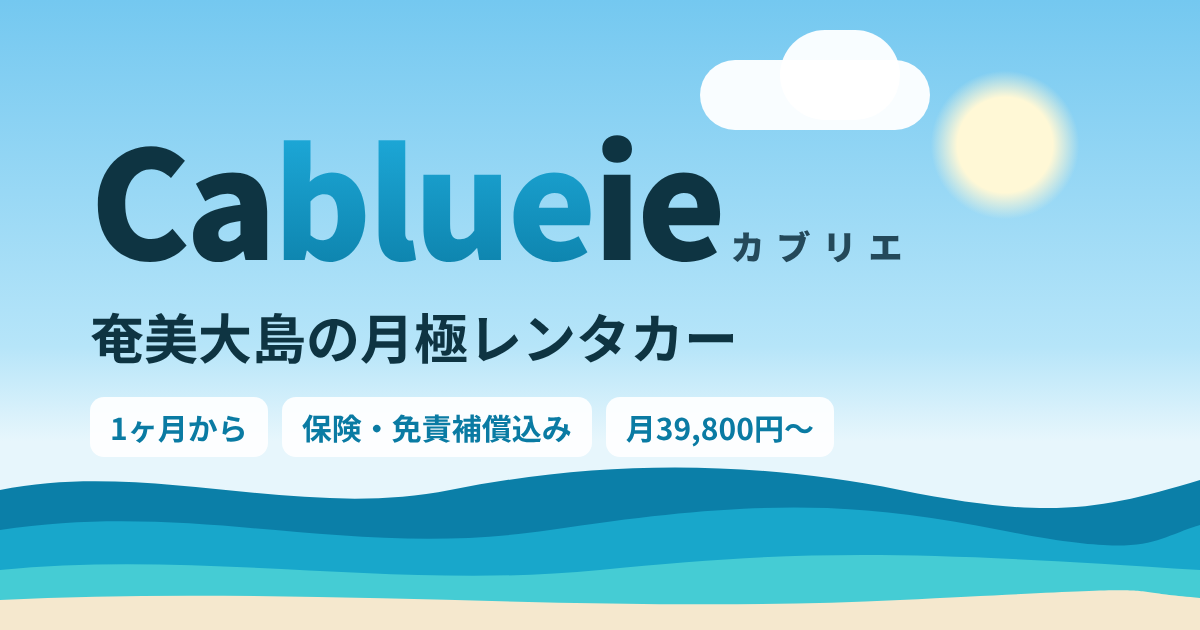
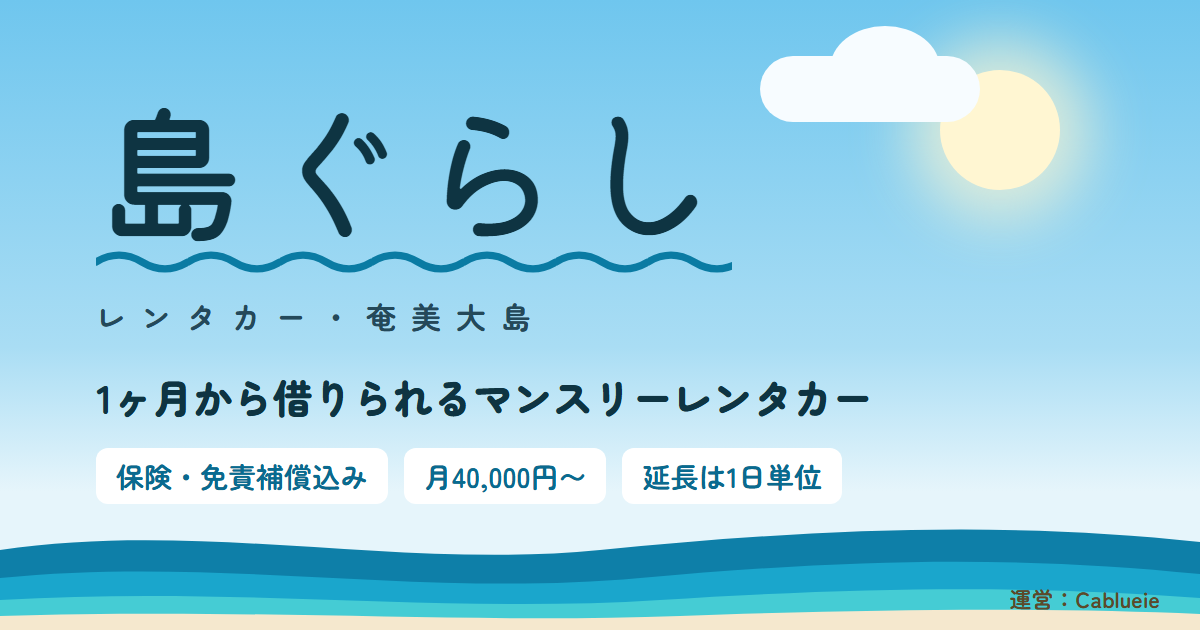
島ぐらしレンタカーに名前を変更（トップ・アイコン・共有画像）

diff --git a/index.html b/index.html
@@ -3,12 +3,12 @@
 <head>
 <meta charset="utf-8">
 <meta name="viewport" content="width=device-width, initial-scale=1">
-<title>奄美大島のマンスリーレンタカー（月極・長期）｜Cablueieレンタカー</title>
+<title>奄美大島のマンスリーレンタカー（月極・長期）｜島ぐらしレンタカー</title>
 <meta name="description" content="奄美大島のマンスリーレンタカー（月極・長期レンタカー）。1ヶ月から、延長は1日単位。保険・免責補償込みで月40,000円から。奄美空港・名瀬で受け渡し。看護師・出張・転勤など、お仕事や長期滞在に。サイトで予約と支払いまでできます。">
 <link rel="canonical" href="https://cablueie-rentacar.com/">
 <meta property="og:type" content="website">
-<meta property="og:site_name" content="Cablueieレンタカー">
-<meta property="og:title" content="奄美大島のマンスリーレンタカー（月極・長期）｜Cablueieレンタカー">
+<meta property="og:site_name" content="島ぐらしレンタカー">
+<meta property="og:title" content="奄美大島のマンスリーレンタカー（月極・長期）｜島ぐらしレンタカー">
 <meta property="og:description" content="奄美大島のマンスリーレンタカー（月極・長期レンタカー）。1ヶ月から、延長は1日単位。保険・免責補償込みで月40,000円から。奄美空港・名瀬で受け渡し。看護師・出張・転勤など、お仕事や長期滞在に。サイトで予約と支払いまでできます。">
 <meta property="og:url" content="https://cablueie-rentacar.com/">
 <meta property="og:image" content="https://cablueie-rentacar.com/og.png">
@@ -19,11 +19,11 @@
 <link rel="apple-touch-icon" href="apple-touch-icon.png">
 <link rel="preconnect" href="https://fonts.googleapis.com">
 <link rel="preconnect" href="https://fonts.gstatic.com" crossorigin>
-<link rel="stylesheet" href="https://fonts.googleapis.com/css2?family=Bricolage+Grotesque:opsz,wght@12..96,600;12..96,800&amp;family=IBM+Plex+Mono:wght@400;500&amp;family=Zen+Kaku+Gothic+New:wght@400;500;700&amp;display=swap">
-<link rel="stylesheet" href="assets/site.css?v=20261016">
-<script type="application/ld+json">{"@context": "https://schema.org", "@type": "WebSite", "@id": "https://cablueie-rentacar.com/#website", "url": "https://cablueie-rentacar.com/", "name": "Cablueieレンタカー", "alternateName": ["カブリエレンタカー", "Cablueie"], "inLanguage": "ja", "publisher": {"@id": "https://cablueie-rentacar.com/#business"}}</script>
-<script type="application/ld+json">{"@context": "https://schema.org", "@type": "AutoRental", "name": "Cablueieレンタカー", "alternateName": ["カブリエレンタカー", "Cablueie"], "description": "奄美大島のマンスリーレンタカー（月極・長期レンタカー）。1ヶ月から、延長は1日単位。保険・免責補償込みで月40,000円から。奄美空港・名瀬で受け渡し。看護師・出張・転勤など、お仕事や長期滞在に。サイトで予約と支払いまでできます。", "url": "https://cablueie-rentacar.com/", "image": "https://cablueie-rentacar.com/og.png", "logo": "https://cablueie-rentacar.com/apple-touch-icon.png", "address": {"@type": "PostalAddress", "postalCode": "894-0062", "addressRegion": "鹿児島県", "addressLocality": "奄美市", "streetAddress": "名瀬有屋町", "addressCountry": "JP"}, "areaServed": {"@type": "Place", "name": "奄美大島"}, "priceRange": "月額40,000円〜45,000円", "paymentAccepted": "クレジットカード, 電子決済, 銀行振込", "currenciesAccepted": "JPY", "@id": "https://cablueie-rentacar.com/#business", "knowsLanguage": "ja", "makesOffer": [{"@type": "Offer", "name": "マンスリーレンタカー（通常シーズン 10〜5月）", "description": "軽自動車・保険と免責補償込み", "priceCurrency": "JPY", "price": "40000", "availability": "https://schema.org/InStock", "priceSpecification": {"@type": "UnitPriceSpecification", "price": 40000, "priceCurrency": "JPY", "unitText": "月", "unitCode": "MON"}}, {"@type": "Offer", "name": "マンスリーレンタカー（夏シーズン 6〜9月）", "description": "軽自動車・保険と免責補償込み", "priceCurrency": "JPY", "price": "45000", "availability": "https://schema.org/InStock", "priceSpecification": {"@type": "UnitPriceSpecification", "price": 45000, "priceCurrency": "JPY", "unitText": "月", "unitCode": "MON"}}]}</script>
-<script type="application/ld+json">{"@context": "https://schema.org", "@type": "FAQPage", "mainEntity": [{"@type": "Question", "name": "マンスリーレンタカー（月極レンタカー）とは何ですか？", "acceptedAnswer": {"@type": "Answer", "text": "1ヶ月単位の料金で長く借りられるレンタカーです。1日ごとの料金のふつうのレンタカーより、長く使うほど割安になります。Cablueieレンタカーは1ヶ月から借りられて、1ヶ月を超えた分は1日単位、最長6ヶ月までです。保険と免責補償は料金に含まれています。"}}, {"@type": "Question", "name": "1ヶ月より短く借りられますか？", "acceptedAnswer": {"@type": "Answer", "text": "はい。借りる日が30日以内の場合か、予約と予約のあいだの1ヶ月に満たない空きの場合に、7日から借りられます。料金は1日3,500円（夏シーズンの6〜9月は4,000円。その時期の1ヶ月分が上限）で、全額前払いです。カレンダーで期間を選べば、そのまま申し込みとお支払いまでできます。"}}, {"@type": "Question", "name": "保険は入っていますか？事故のときの修理代は？", "acceptedAnswer": {"@type": "Answer", "text": "自賠責保険と任意保険（対人・対物無制限）、免責補償が月額料金に含まれています。万一の事故でも、車の修理代のご負担はありません。修理中の休業補償（NOC）は別にかかりますが、NOCサポート（月1,500円）に入ると0円になります。"}}, {"@type": "Question", "name": "奄美空港で受け取れますか？", "acceptedAnswer": {"@type": "Answer", "text": "はい。奄美空港での受け渡しは片道3,000円、名瀬の市街地（港・病院・滞在先など）は片道500円、名瀬有屋町の事務所なら無料です。受け渡しの時間と場所は、お申し込みのあとにご連絡して決めます。少人数で運営しているため、便の時間などによっては、ご希望に添えないことがあります。"}}, {"@type": "Question", "name": "支払い方法は何が使えますか？", "acceptedAnswer": {"@type": "Answer", "text": "クレジットカード（Visa・Mastercard・JCB・American Expressなど）、電子決済、銀行振込が使えます。お申し込みのあと、お支払いページのリンクをメールでお送りします。ご利用期間の料金をお支払いいただいた時点で、予約が確定します。"}}, {"@type": "Question", "name": "保証金は必要ですか？カードの登録とは？", "acceptedAnswer": {"@type": "Answer", "text": "保証金はいただきません。その代わりに、お支払いのときに保証用のクレジットカード（またはデビットカード）を登録していただきます。今は請求されず、返却後の燃料代・延滞料金・違約金などを期日までにお支払いいただけないときだけ、内容をお知らせしたうえで請求します。ご利用の終了から90日後に登録を削除します。"}}, {"@type": "Question", "name": "LINEや電話で申し込めますか？", "acceptedAnswer": {"@type": "Answer", "text": "ご相談は、LINE・電話・メールで受け付けています。お申し込みは、このページの「見積もりと申し込み」からお願いします（運転免許証の写真もそこから送っていただきます）。免許証の写真は、LINEやメールでは受け付けていません。あとから運転する人を追加するときや、免許証の写真を撮り直すときは、受付確認のメールにある専用のページから送れます。"}}, {"@type": "Question", "name": "どんな人が運転できますか？", "acceptedAnswer": {"@type": "Answer", "text": "21歳以上で、運転免許を取って1年以上の方です。運転する方は全員、申し込みのときに運転免許証の写真を送っていただきます。"}}, {"@type": "Question", "name": "カーリースとの違いは？", "acceptedAnswer": {"@type": "Answer", "text": "カーリースは年単位の契約が中心で、途中でやめると違約金がかかることが多いため、数ヶ月の滞在には向きません。マンスリーレンタカーなら1ヶ月から借りられて、保険・点検・車検の費用も料金に含まれています。"}}, {"@type": "Question", "name": "走行距離の制限や、島の外への持ち出しは？", "acceptedAnswer": {"@type": "Answer", "text": "走行距離の制限はありません。ご利用は奄美大島内に限り、フェリーなどで他の島へ車を持ち出すことはできません。"}}]}</script>
+<link rel="stylesheet" href="https://fonts.googleapis.com/css2?family=Kiwi+Maru:wght@500&amp;family=Zen+Maru+Gothic:wght@500;700;900&amp;family=IBM+Plex+Mono:wght@400;500&amp;display=swap">
+<link rel="stylesheet" href="assets/site.css?v=20261018">
+<script type="application/ld+json">{"@context": "https://schema.org", "@type": "WebSite", "@id": "https://cablueie-rentacar.com/#website", "url": "https://cablueie-rentacar.com/", "name": "島ぐらしレンタカー", "alternateName": ["しまぐらしレンタカー", "島ぐらしレンタカー", "カブリエレンタカー"], "inLanguage": "ja", "publisher": {"@id": "https://cablueie-rentacar.com/#business"}}</script>
+<script type="application/ld+json">{"@context": "https://schema.org", "@type": "AutoRental", "name": "島ぐらしレンタカー", "alternateName": ["しまぐらしレンタカー", "島ぐらしレンタカー", "カブリエレンタカー"], "description": "奄美大島のマンスリーレンタカー（月極・長期レンタカー）。1ヶ月から、延長は1日単位。保険・免責補償込みで月40,000円から。奄美空港・名瀬で受け渡し。看護師・出張・転勤など、お仕事や長期滞在に。サイトで予約と支払いまでできます。", "url": "https://cablueie-rentacar.com/", "image": "https://cablueie-rentacar.com/og.png", "logo": "https://cablueie-rentacar.com/apple-touch-icon.png", "address": {"@type": "PostalAddress", "postalCode": "894-0062", "addressRegion": "鹿児島県", "addressLocality": "奄美市", "streetAddress": "名瀬有屋町", "addressCountry": "JP"}, "areaServed": {"@type": "Place", "name": "奄美大島"}, "priceRange": "月額40,000円〜45,000円", "paymentAccepted": "クレジットカード, 電子決済, 銀行振込", "currenciesAccepted": "JPY", "@id": "https://cablueie-rentacar.com/#business", "knowsLanguage": "ja", "makesOffer": [{"@type": "Offer", "name": "マンスリーレンタカー（通常シーズン 10〜5月）", "description": "軽自動車・保険と免責補償込み", "priceCurrency": "JPY", "price": "40000", "availability": "https://schema.org/InStock", "priceSpecification": {"@type": "UnitPriceSpecification", "price": 40000, "priceCurrency": "JPY", "unitText": "月", "unitCode": "MON"}}, {"@type": "Offer", "name": "マンスリーレンタカー（夏シーズン 6〜9月）", "description": "軽自動車・保険と免責補償込み", "priceCurrency": "JPY", "price": "45000", "availability": "https://schema.org/InStock", "priceSpecification": {"@type": "UnitPriceSpecification", "price": 45000, "priceCurrency": "JPY", "unitText": "月", "unitCode": "MON"}}]}</script>
+<script type="application/ld+json">{"@context": "https://schema.org", "@type": "FAQPage", "mainEntity": [{"@type": "Question", "name": "マンスリーレンタカー（月極レンタカー）とは何ですか？", "acceptedAnswer": {"@type": "Answer", "text": "1ヶ月単位の料金で長く借りられるレンタカーです。1日ごとの料金のふつうのレンタカーより、長く使うほど割安になります。島ぐらしレンタカーは1ヶ月から借りられて、1ヶ月を超えた分は1日単位、最長6ヶ月までです。保険と免責補償は料金に含まれています。"}}, {"@type": "Question", "name": "1ヶ月より短く借りられますか？", "acceptedAnswer": {"@type": "Answer", "text": "はい。借りる日が30日以内の場合か、予約と予約のあいだの1ヶ月に満たない空きの場合に、7日から借りられます。料金は1日3,500円（夏シーズンの6〜9月は4,000円。その時期の1ヶ月分が上限）で、全額前払いです。カレンダーで期間を選べば、そのまま申し込みとお支払いまでできます。"}}, {"@type": "Question", "name": "保険は入っていますか？事故のときの修理代は？", "acceptedAnswer": {"@type": "Answer", "text": "自賠責保険と任意保険（対人・対物無制限）、免責補償が月額料金に含まれています。万一の事故でも、車の修理代のご負担はありません。修理中の休業補償（NOC）は別にかかりますが、NOCサポート（月1,500円）に入ると0円になります。"}}, {"@type": "Question", "name": "奄美空港で受け取れますか？", "acceptedAnswer": {"@type": "Answer", "text": "はい。奄美空港での受け渡しは片道3,000円、名瀬の市街地（港・病院・滞在先など）は片道500円、名瀬有屋町の事務所なら無料です。受け渡しの時間と場所は、お申し込みのあとにご連絡して決めます。少人数で運営しているため、便の時間などによっては、ご希望に添えないことがあります。"}}, {"@type": "Question", "name": "支払い方法は何が使えますか？", "acceptedAnswer": {"@type": "Answer", "text": "クレジットカード（Visa・Mastercard・JCB・American Expressなど）、電子決済、銀行振込が使えます。お申し込みのあと、お支払いページのリンクをメールでお送りします。ご利用期間の料金をお支払いいただいた時点で、予約が確定します。"}}, {"@type": "Question", "name": "保証金は必要ですか？カードの登録とは？", "acceptedAnswer": {"@type": "Answer", "text": "保証金はいただきません。その代わりに、お支払いのときに保証用のクレジットカード（またはデビットカード）を登録していただきます。今は請求されず、返却後の燃料代・延滞料金・違約金などを期日までにお支払いいただけないときだけ、内容をお知らせしたうえで請求します。ご利用の終了から90日後に登録を削除します。"}}, {"@type": "Question", "name": "LINEや電話で申し込めますか？", "acceptedAnswer": {"@type": "Answer", "text": "ご相談は、LINE・電話・メールで受け付けています。お申し込みは、このページの「見積もりと申し込み」からお願いします（運転免許証の写真もそこから送っていただきます）。免許証の写真は、LINEやメールでは受け付けていません。あとから運転する人を追加するときや、免許証の写真を撮り直すときは、受付確認のメールにある専用のページから送れます。"}}, {"@type": "Question", "name": "どんな人が運転できますか？", "acceptedAnswer": {"@type": "Answer", "text": "21歳以上で、運転免許を取って1年以上の方です。運転する方は全員、申し込みのときに運転免許証の写真を送っていただきます。"}}, {"@type": "Question", "name": "カーリースとの違いは？", "acceptedAnswer": {"@type": "Answer", "text": "カーリースは年単位の契約が中心で、途中でやめると違約金がかかることが多いため、数ヶ月の滞在には向きません。マンスリーレンタカーなら1ヶ月から借りられて、保険・点検・車検の費用も料金に含まれています。"}}, {"@type": "Question", "name": "走行距離の制限や、島の外への持ち出しは？", "acceptedAnswer": {"@type": "Answer", "text": "走行距離の制限はありません。ご利用は奄美大島内に限り、フェリーなどで他の島へ車を持ち出すことはできません。"}}]}</script>
 </head>
 <body>
 <div id="site">
@@ -32,8 +32,8 @@
   <div class="wrap hero">
     <div>
       <div class="brand">
-        <span class="wordmark" aria-label="Cablueie">Ca<span class="blue">blue</span>ie</span>
-        <span class="kana">rent-a-car</span>
+        <span class="wordmark" aria-label="島ぐらしレンタカー">島ぐらし</span>
+        <span class="kana">レンタカー・奄美大島</span>
       </div>
       <h1><span class="h1-sub"><span class="nb">奄美大島の</span><span class="nb">マンスリーレンタカー</span><span class="nb">（月極・長期）</span></span><span class="nb">島に着いたその日から、</span><span class="nb">自分の車がある暮らし。</span></h1>
       <p class="lead">奄美大島でのお仕事や長期滞在に。1ヶ月から借りられるマンスリーレンタカーです。保険と免責補償は、月額料金に含まれています。</p>
@@ -86,7 +86,7 @@
         <figcaption>実際にお貸しする車です</figcaption>
       </figure>
       <div class="shaken">
-        <div class="shaken-title">車両の情報<span>Cablueie No.1</span></div>
+        <div class="shaken-title">車両の情報<span>1号車</span></div>
         <dl>
           <dt>車名</dt><dd>ダイハツ ムーヴ カスタム</dd>
           <dt>型式</dt><dd class="mono">DBA-LA150S</dd>
@@ -517,7 +517,7 @@
       <h2 id="faq-h">よくある質問</h2>
     </div>
     <div class="faq cols">
-      <details class="faq-item"><summary>マンスリーレンタカー（月極レンタカー）とは何ですか？</summary><p>1ヶ月単位の料金で長く借りられるレンタカーです。1日ごとの料金のふつうのレンタカーより、長く使うほど割安になります。Cablueieレンタカーは1ヶ月から借りられて、1ヶ月を超えた分は1日単位、最長6ヶ月までです。保険と免責補償は料金に含まれています。</p></details>
+      <details class="faq-item"><summary>マンスリーレンタカー（月極レンタカー）とは何ですか？</summary><p>1ヶ月単位の料金で長く借りられるレンタカーです。1日ごとの料金のふつうのレンタカーより、長く使うほど割安になります。島ぐらしレンタカーは1ヶ月から借りられて、1ヶ月を超えた分は1日単位、最長6ヶ月までです。保険と免責補償は料金に含まれています。</p></details>
       <details class="faq-item"><summary>1ヶ月より短く借りられますか？</summary><p>はい。借りる日が30日以内の場合か、予約と予約のあいだの1ヶ月に満たない空きの場合に、7日から借りられます。料金は1日3,500円（夏シーズンの6〜9月は4,000円。その時期の1ヶ月分が上限）で、全額前払いです。カレンダーで期間を選べば、そのまま申し込みとお支払いまでできます。</p></details>
       <details class="faq-item"><summary>保険は入っていますか？事故のときの修理代は？</summary><p>自賠責保険と任意保険（対人・対物無制限）、免責補償が月額料金に含まれています。万一の事故でも、車の修理代のご負担はありません。修理中の休業補償（NOC）は別にかかりますが、NOCサポート（月1,500円）に入ると0円になります。</p></details>
       <details class="faq-item"><summary>奄美空港で受け取れますか？</summary><p>はい。奄美空港での受け渡しは片道3,000円、名瀬の市街地（港・病院・滞在先など）は片道500円、名瀬有屋町の事務所なら無料です。受け渡しの時間と場所は、お申し込みのあとにご連絡して決めます。少人数で運営しているため、便の時間などによっては、ご希望に添えないことがあります。</p></details>
@@ -579,7 +579,7 @@
 <div class="foot-scene">
   <canvas class="sea-foot" id="sea-foot" aria-hidden="true"></canvas>
   <footer class="wrap">
-    <strong>Cablueie rent-a-car</strong>
+    <strong>島ぐらしレンタカー</strong>
     <span>運営：Cablueie（カブリエ）中江智広　／　受け渡し場所：<span id="foot-handover">奄美市名瀬有屋町</span></span>
     <span>自家用自動車有償貸渡業 許可番号：<span id="foot-license">申請中</span></span>
     <nav class="foot-nav" aria-label="サイト内のリンク"><a href="#price">料金</a><a href="#request">見積もりと申し込み</a><a href="#faq">よくある質問</a><a href="cost/">1ヶ月借りるといくら？</a><a href="work/">お仕事で来島する方へ</a><a href="guide/">長く車を使う方法と費用</a><a href="terms/">貸渡約款</a><a href="legal/">特定商取引法に基づく表記</a><a href="#privacy">個人情報の取り扱い</a></nav>

diff --git a/404.html b/404.html
@@ -3,12 +3,12 @@
 <head>
 <meta charset="utf-8">
 <meta name="viewport" content="width=device-width, initial-scale=1">
-<title>ページが見つかりません｜Cablueieレンタカー</title>
+<title>ページが見つかりません｜島ぐらしレンタカー</title>
 <meta name="description" content="お探しのページは見つかりませんでした。">
 <meta name="robots" content="noindex">
 <meta property="og:type" content="website">
-<meta property="og:site_name" content="Cablueieレンタカー">
-<meta property="og:title" content="ページが見つかりません｜Cablueieレンタカー">
+<meta property="og:site_name" content="島ぐらしレンタカー">
+<meta property="og:title" content="ページが見つかりません｜島ぐらしレンタカー">
 <meta property="og:description" content="お探しのページは見つかりませんでした。">
 <meta property="og:url" content="https://cablueie-rentacar.com/404.html">
 <meta property="og:image" content="https://cablueie-rentacar.com/og.png">
@@ -19,8 +19,8 @@
 <link rel="apple-touch-icon" href="/apple-touch-icon.png">
 <link rel="preconnect" href="https://fonts.googleapis.com">
 <link rel="preconnect" href="https://fonts.gstatic.com" crossorigin>
-<link rel="stylesheet" href="https://fonts.googleapis.com/css2?family=Bricolage+Grotesque:opsz,wght@12..96,600;12..96,800&amp;family=IBM+Plex+Mono:wght@400;500&amp;family=Zen+Kaku+Gothic+New:wght@400;500;700&amp;display=swap">
-<link rel="stylesheet" href="/assets/site.css?v=20261011">
+<link rel="stylesheet" href="https://fonts.googleapis.com/css2?family=Kiwi+Maru:wght@500&amp;family=Zen+Maru+Gothic:wght@500;700;900&amp;family=IBM+Plex+Mono:wght@400;500&amp;display=swap">
+<link rel="stylesheet" href="/assets/site.css?v=20261018">
 </head>
 <body class="subpage">
 <main class="wrap doc"><h1>ページが見つかりません</h1><p>お探しのページは、移動したか、なくなった可能性があります。</p><p><a class="btn" href="/">トップページへ</a></p></main>
